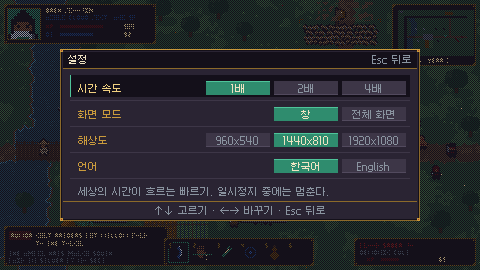
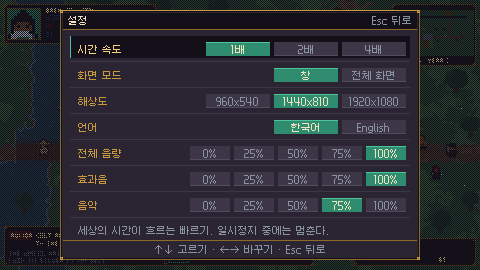
feat: set the master, effects and music volumes in the settings

diff --git a/docs/architecture/godot-adapter.md b/docs/architecture/godot-adapter.md
@@ -48,10 +48,10 @@ The GDExtension adapter through which Godot drives the simulation core: what exi
   - The title screen draws `art/title/backdrop.png`, the mountains and the working title, with a line and a menu over it: a new game, continue, which waits for saving and cannot be chosen, the settings and quit.
   - The new-game panel takes a seed of up to ten digits, or draws one at random with R or when its field is left empty.
   - The pause panel's menu resumes, opens the settings, leaves for the title by reloading the scene, or quits. It shows the world's seed, and the controls guide: each control's keys on their caps and what it does, as the play scene binds them.
-  - The settings panel chooses the time speed, 1x, 2x or 4x; the window mode, windowed or fullscreen; the window's size, 2x, 3x or 4x the native 480 x 270; and the language. Each choice is applied and kept at once in `user://settings.cfg`, a preference of the player's and not the world's state. The play scene reads the file and applies it when it starts, and a choice the file lacks or holds out of range keeps its default. F2's switch is kept as the language too.
+  - The settings panel chooses the time speed, 1x, 2x or 4x; the window mode, windowed or fullscreen; the window's size, 2x, 3x or 4x the native 480 x 270; the language; and the volume of the Master, Effects and Music buses, each 0%, 25%, 50%, 75% or 100%, 0% muting the bus. Each choice is applied and kept at once in `user://settings.cfg`, a preference of the player's and not the world's state. The play scene reads the file and applies it when it starts, and a choice the file lacks or holds out of range keeps its default. F2's switch is kept as the language too.
   - Their words come from `hud/hud.csv`, with each screen's keys under a prefix of its own.
 - `hud/hud.tscn` shows the player's portrait and faction; health as a percentage of its health when born over its bar, and inner energy as a dash over an empty bar; a map of the region around the player, drawn from `territory` and `villages` and redrawn when `world_art.tscn` signals a change, with the season and year from the core's calendar; a rumour log; its faction's leader, with C to challenge; while a duel for the lead is fought, both duellists and their health against what each had when it began, and when it ends whether the lead changed hands; the verdict on the player's challenge, or why it was refused; and the technique bar, one slot per skill with its number key and an icon of its shape, `burst` when its radius reaches past its target and `strike` otherwise. It names the leader and the duellists other than the player as `person_name` gives, surname and given name in Korean and the given name alone in English, as the genealogy cards do, cut short with an ellipsis past its label. It draws in Galmuri9. Its words come from `hud/hud.csv` through Godot's translations: Korean at start unless the settings keep another language, and F2 switches between Korean and English.
-- A headless Godot test shows that a world of two hostile armies with skills, and structures, driven through the adapter, gives the core's hash, and its people's positions and health, for the same scenario and tick count, against `world_hash`, a program that runs the core with no Godot; and that invalid scenarios return null while a valid one does not. It also shows that a person ordered through the adapter leaves home and strikes a hostile camp down, while one left without an order does neither. It also shows that the region `create_region` makes keeps every structure intact for 600 ticks with the player born into a Cult village, while the Cult's torch breaks a structure no village holds. It also reads the player's body's name, in Korean and romanised, and its family, with no kin as the world begins, and every person in the region bearing a surname and a given name from `names`, while a world from `create` names no one and its `names` are empty. It also reads each sect of a region with its name, faction, a held seat of the seat template, its two founders as members with its master among its elders, a cap above them and its manual held, the player belonging to none, and the Orthodox alone electing their leader, while a world from `create` has no sects or manuals and elects no leader. It also reads each region village's population under its cap with food in store, and its stock a day later less a measure for each of its people, and each village's centre in its owner's territory, with cells no village claims in none; and that a region of five-tick days reaches its next day in five ticks, while days of 0 and -1 ticks are refused. `world_art`'s test shows the granary and storehouse drawn as their kinds and every field cell tiled with its state's frames. A second test shows `play.tscn` turning a click and keys into orders: a click on a passable cell moves the person toward it, and a click on a blocked cell and a key for a skill the person lacks are refused. A third shows `world_art.tscn` laying the plain on every cell, and each dual-grid tile with the corner mask of its four cells. It also checks that every body on screen and none off it is drawn, that every structure of a generated region but a field is drawn, each with its stage's frame of its kind's art over its footprint, the training ground on the ground, while structures from `create` are left undrawn; that each village's banners stand on the cells its template's data names, sect banners at every seat; and that each village's ground decorations cover the cells its template's data names, a seat's among them, a village the region founds on days of five ticks included, whose structures stand at a generated village's offsets from its corner. It also checks, on a generated region, that every landform stands on cells the map marks rough or blocked and over no structure, while every structure stands on buildable cells. It also shows that after the view jumps across the region, every body a row holds lies inside the bounds the row is culled by, as it does when the view stays. A fourth shows the HUD's words in Korean, then in English after a switch, its health and inner-energy values, an icon for each skill, and the core's season and year. It also shows the leader and duel panels naming a Cult leader as `person_name` gives, and the challenger as the player, a given name wider than its label kept within it, while an Orthodox player's panel names that faction's leader instead. It also measures, in each locale, every word from `hud/hud.csv` the HUD shows against the room its panel gives it, and every surname from `names` crossed with every given name against the leader and duel panels' name labels. A sixth lets the region live 50 days and opens the panel on someone with a spouse and a child: the names, spouse, children, parents, family, age and sect match the adapter, talent and lifespan read unknown, and moving down and pressing Enter centres the panel on the child, whose parents then include that person; the child's header reads the second generation; the person the world began with shows no parents and the first generation. It also measures, in each locale, every word the panel draws from `hud/hud.csv`, and every surname from `names` crossed with every given name as a card, the column and a spouse show it, against the room the panel gives each. `play_test` also shows G opening the panel on the steered person, a digit giving no order while it is open, and G closing it. A seventh lets the region live 40 years of five-tick days and opens the sect panel on an army led by a member: the sect's name, faction, master, elders, members, cap and seat, the master's card first and then the other elders', and the faction's leader and sects match the adapter, and Tab steps through each faction, the Orthodox carrying the election tag, the Cult the duel tag and the Unorthodox neither, while a world from `create` opens on no sect. It also measures, in each locale, every word the panel draws from `hud/hud.csv`, every sect's name, and every surname from `names` crossed with every given name as a card, the master's figure and the leader show it, against the room the panel gives each. `play_test` also shows M opening the sect panel on the steered person's faction, a digit giving no order while it is open, Tab showing the next faction, and M closing it. A fifth drives a challenge through the adapter: a member's challenge starts a duel the adapter reads, and a win makes the challenger leader and turns the Cult's ally hostile; an outsider is refused for not being a member, and a lost duel leaves the leader. `play_test` also shows C refused, with its reason on the HUD, from an Orthodox village, and accepted, with the duel shown, from a Cult one. It also orders a village's residents away, which moves its territory, and shows the borders and the HUD's map following the territory before and after, kept over a tick that moved none and over frames. `play_test` also shows a move key walking the person its way and its release stopping it, against the same scene with no key, where the person stays; and the scene opening on the title with no world, a typed seed starting the world the core makes from it, Escape pausing it with the guide showing the bound keys, 1-9 and 0 among them, no tick running while paused, and the settings' fourfold speed running at least four times the ticks. An eighth group, one test per screen, checks the title's menu passing over continue, the new-game field taking digits up to its length and refusing the next, the pause menu's entries, and the settings kept in a file and read back, with a missing file reading the defaults and a value out of range refused for its default; each measures, in each locale, every word the screen draws from `hud/hud.csv` against the room it gives it. `file_saves_test` lives a region 15 years at days of five ticks, until its growth has formed an army after the player's, saves it to a slot and loads it: the hash, `player_army`, villages, terrain and date match, and the hash and `player_army` still match after 1,000 more ticks; another region saved to another slot loads as itself with a different hash, an empty slot loads null, and a world from `create` is not saved. A ninth, `sound/sound_test.gd`, listens to a world of two hostile bands, a torch-bearer beside a structure and a mender beside a damaged one, and hears a strike, a hit, a fall, fire and a mend, each starting a voice with its own sound, while the same world at peace reports none, and an event off screen starts no voice; it marches a Cult player on the nearest hostile village until its bell rings, while the player left at home hears none; and over the M1 battle the voices sounding reach the cap and never pass it, dropping the rest, while once the sounds end each kind heard starts a voice again.
+- A headless Godot test shows that a world of two hostile armies with skills, and structures, driven through the adapter, gives the core's hash, and its people's positions and health, for the same scenario and tick count, against `world_hash`, a program that runs the core with no Godot; and that invalid scenarios return null while a valid one does not. It also shows that a person ordered through the adapter leaves home and strikes a hostile camp down, while one left without an order does neither. It also shows that the region `create_region` makes keeps every structure intact for 600 ticks with the player born into a Cult village, while the Cult's torch breaks a structure no village holds. It also reads the player's body's name, in Korean and romanised, and its family, with no kin as the world begins, and every person in the region bearing a surname and a given name from `names`, while a world from `create` names no one and its `names` are empty. It also reads each sect of a region with its name, faction, a held seat of the seat template, its two founders as members with its master among its elders, a cap above them and its manual held, the player belonging to none, and the Orthodox alone electing their leader, while a world from `create` has no sects or manuals and elects no leader. It also reads each region village's population under its cap with food in store, and its stock a day later less a measure for each of its people, and each village's centre in its owner's territory, with cells no village claims in none; and that a region of five-tick days reaches its next day in five ticks, while days of 0 and -1 ticks are refused. `world_art`'s test shows the granary and storehouse drawn as their kinds and every field cell tiled with its state's frames. A second test shows `play.tscn` turning a click and keys into orders: a click on a passable cell moves the person toward it, and a click on a blocked cell and a key for a skill the person lacks are refused. A third shows `world_art.tscn` laying the plain on every cell, and each dual-grid tile with the corner mask of its four cells. It also checks that every body on screen and none off it is drawn, that every structure of a generated region but a field is drawn, each with its stage's frame of its kind's art over its footprint, the training ground on the ground, while structures from `create` are left undrawn; that each village's banners stand on the cells its template's data names, sect banners at every seat; and that each village's ground decorations cover the cells its template's data names, a seat's among them, a village the region founds on days of five ticks included, whose structures stand at a generated village's offsets from its corner. It also checks, on a generated region, that every landform stands on cells the map marks rough or blocked and over no structure, while every structure stands on buildable cells. It also shows that after the view jumps across the region, every body a row holds lies inside the bounds the row is culled by, as it does when the view stays. A fourth shows the HUD's words in Korean, then in English after a switch, its health and inner-energy values, an icon for each skill, and the core's season and year. It also shows the leader and duel panels naming a Cult leader as `person_name` gives, and the challenger as the player, a given name wider than its label kept within it, while an Orthodox player's panel names that faction's leader instead. It also measures, in each locale, every word from `hud/hud.csv` the HUD shows against the room its panel gives it, and every surname from `names` crossed with every given name against the leader and duel panels' name labels. A sixth lets the region live 50 days and opens the panel on someone with a spouse and a child: the names, spouse, children, parents, family, age and sect match the adapter, talent and lifespan read unknown, and moving down and pressing Enter centres the panel on the child, whose parents then include that person; the child's header reads the second generation; the person the world began with shows no parents and the first generation. It also measures, in each locale, every word the panel draws from `hud/hud.csv`, and every surname from `names` crossed with every given name as a card, the column and a spouse show it, against the room the panel gives each. `play_test` also shows G opening the panel on the steered person, a digit giving no order while it is open, and G closing it. A seventh lets the region live 40 years of five-tick days and opens the sect panel on an army led by a member: the sect's name, faction, master, elders, members, cap and seat, the master's card first and then the other elders', and the faction's leader and sects match the adapter, and Tab steps through each faction, the Orthodox carrying the election tag, the Cult the duel tag and the Unorthodox neither, while a world from `create` opens on no sect. It also measures, in each locale, every word the panel draws from `hud/hud.csv`, every sect's name, and every surname from `names` crossed with every given name as a card, the master's figure and the leader show it, against the room the panel gives each. `play_test` also shows M opening the sect panel on the steered person's faction, a digit giving no order while it is open, Tab showing the next faction, and M closing it. A fifth drives a challenge through the adapter: a member's challenge starts a duel the adapter reads, and a win makes the challenger leader and turns the Cult's ally hostile; an outsider is refused for not being a member, and a lost duel leaves the leader. `play_test` also shows C refused, with its reason on the HUD, from an Orthodox village, and accepted, with the duel shown, from a Cult one. It also orders a village's residents away, which moves its territory, and shows the borders and the HUD's map following the territory before and after, kept over a tick that moved none and over frames. `play_test` also shows a move key walking the person its way and its release stopping it, against the same scene with no key, where the person stays; and the scene opening on the title with no world, a typed seed starting the world the core makes from it, Escape pausing it with the guide showing the bound keys, 1-9 and 0 among them, no tick running while paused, and the settings' fourfold speed running at least four times the ticks. An eighth group, one test per screen, checks the title's menu passing over continue, the new-game field taking digits up to its length and refusing the next, the pause menu's entries, and the settings kept in a file and read back, each volume applied to its bus and none muting it, with a missing file reading the defaults and a value out of range refused for its default; each measures, in each locale, every word the screen draws from `hud/hud.csv` against the room it gives it. `file_saves_test` lives a region 15 years at days of five ticks, until its growth has formed an army after the player's, saves it to a slot and loads it: the hash, `player_army`, villages, terrain and date match, and the hash and `player_army` still match after 1,000 more ticks; another region saved to another slot loads as itself with a different hash, an empty slot loads null, and a world from `create` is not saved. A ninth, `sound/sound_test.gd`, listens to a world of two hostile bands, a torch-bearer beside a structure and a mender beside a damaged one, and hears a strike, a hit, a fall, fire and a mend, each starting a voice with its own sound, while the same world at peace reports none, and an event off screen starts no voice; it marches a Cult player on the nearest hostile village until its bell rings, while the player left at home hears none; and over the M1 battle the voices sounding reach the cap and never pass it, dropping the rest, while once the sounds end each kind heard starts a voice again.
 
 ## Rationale
 

diff --git a/docs/art-direction.md b/docs/art-direction.md
@@ -24,7 +24,7 @@ The approved target, which the production set is taken from:
 - `art/mockup/title_screen.png` — the title screen: `art/title/backdrop`'s ridges of mountains in mist under a low sun and the working title at 4x of the font, and a menu in the HUD's frame with a new game, a greyed continue that waits for saving, settings and quit, in Korean; `title_screen_4x.png` at 4x.
 - `art/mockup/new_game_screen.png` — the new-game panel over the dimmed title screen: a seed typed into its field or drawn at random, and the button that starts the world, in Korean; `new_game_screen_4x.png` at 4x.
 - `art/mockup/pause_screen.png` — the pause panel over the target screen: a menu to resume, open the settings, leave for the title or quit, the world's seed, and the controls guide of each key's cap beside what it does, in Korean; `pause_screen_4x.png` at 4x.
-- `art/mockup/settings_screen.png` — the settings panel over the target screen: time speed, window mode, resolution in whole multiples of the native size and language, each a row of choices with the chosen one in jade, and a line saying what the row being changed sets, in Korean; `settings_screen_4x.png` at 4x.
+- `art/mockup/settings_screen.png` — the settings panel over the target screen: time speed, window mode, resolution in whole multiples of the native size, language, and the volume of all sound, the effects and the music in quarters, each a row of choices with the chosen one in jade, and a line saying what the row being changed sets, in Korean; `settings_screen_4x.png` at 4x.
 
 The production set. Each `.aseprite` file is drawn by the `.lua` script beside it and exported beside it as a `.png` sheet with a `.json` of its frames and tags, by the command in `docs/convention/stack-godot.md` §Asset export. `art/build.sh` redraws and exports all of it.
 
